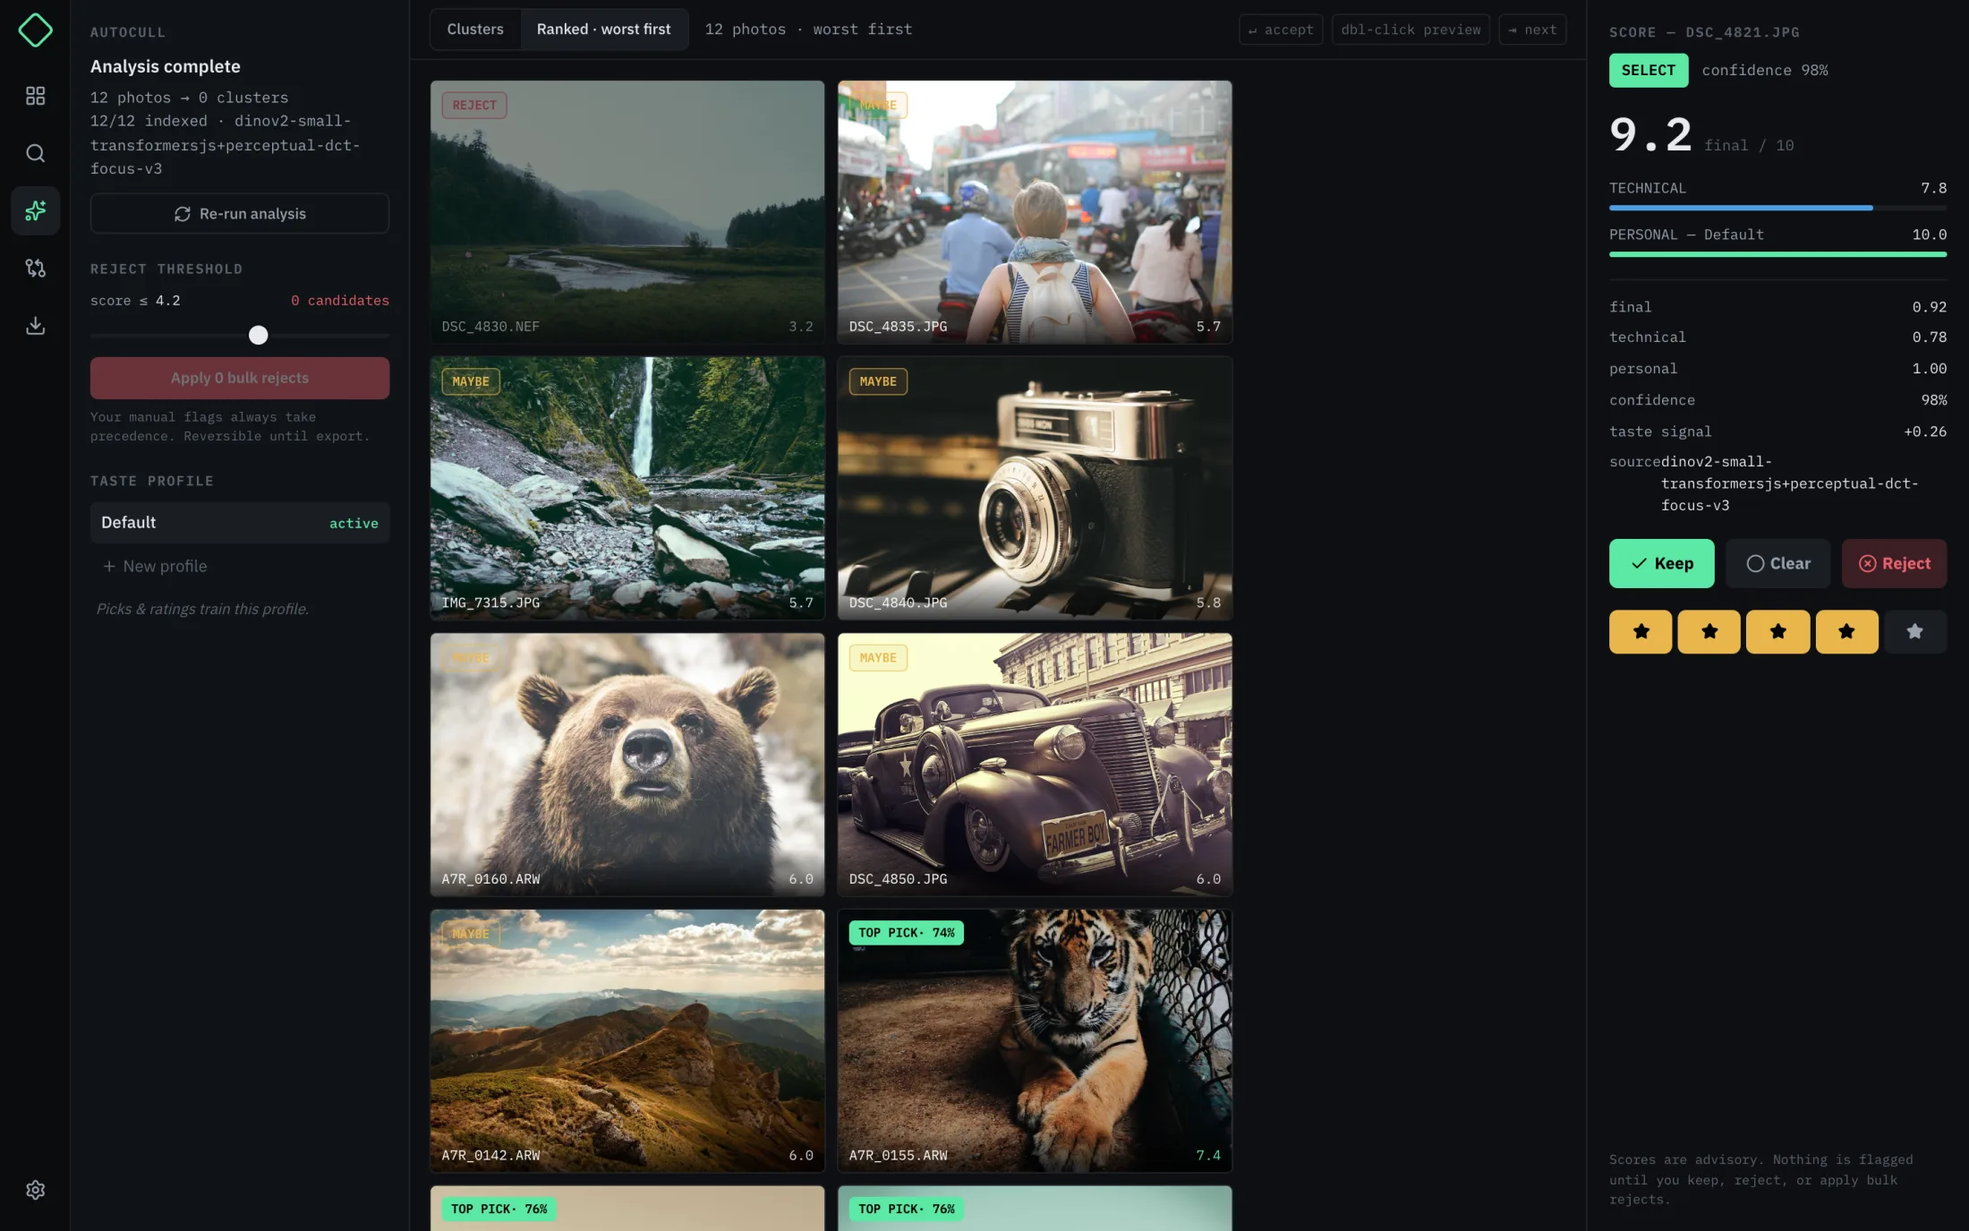
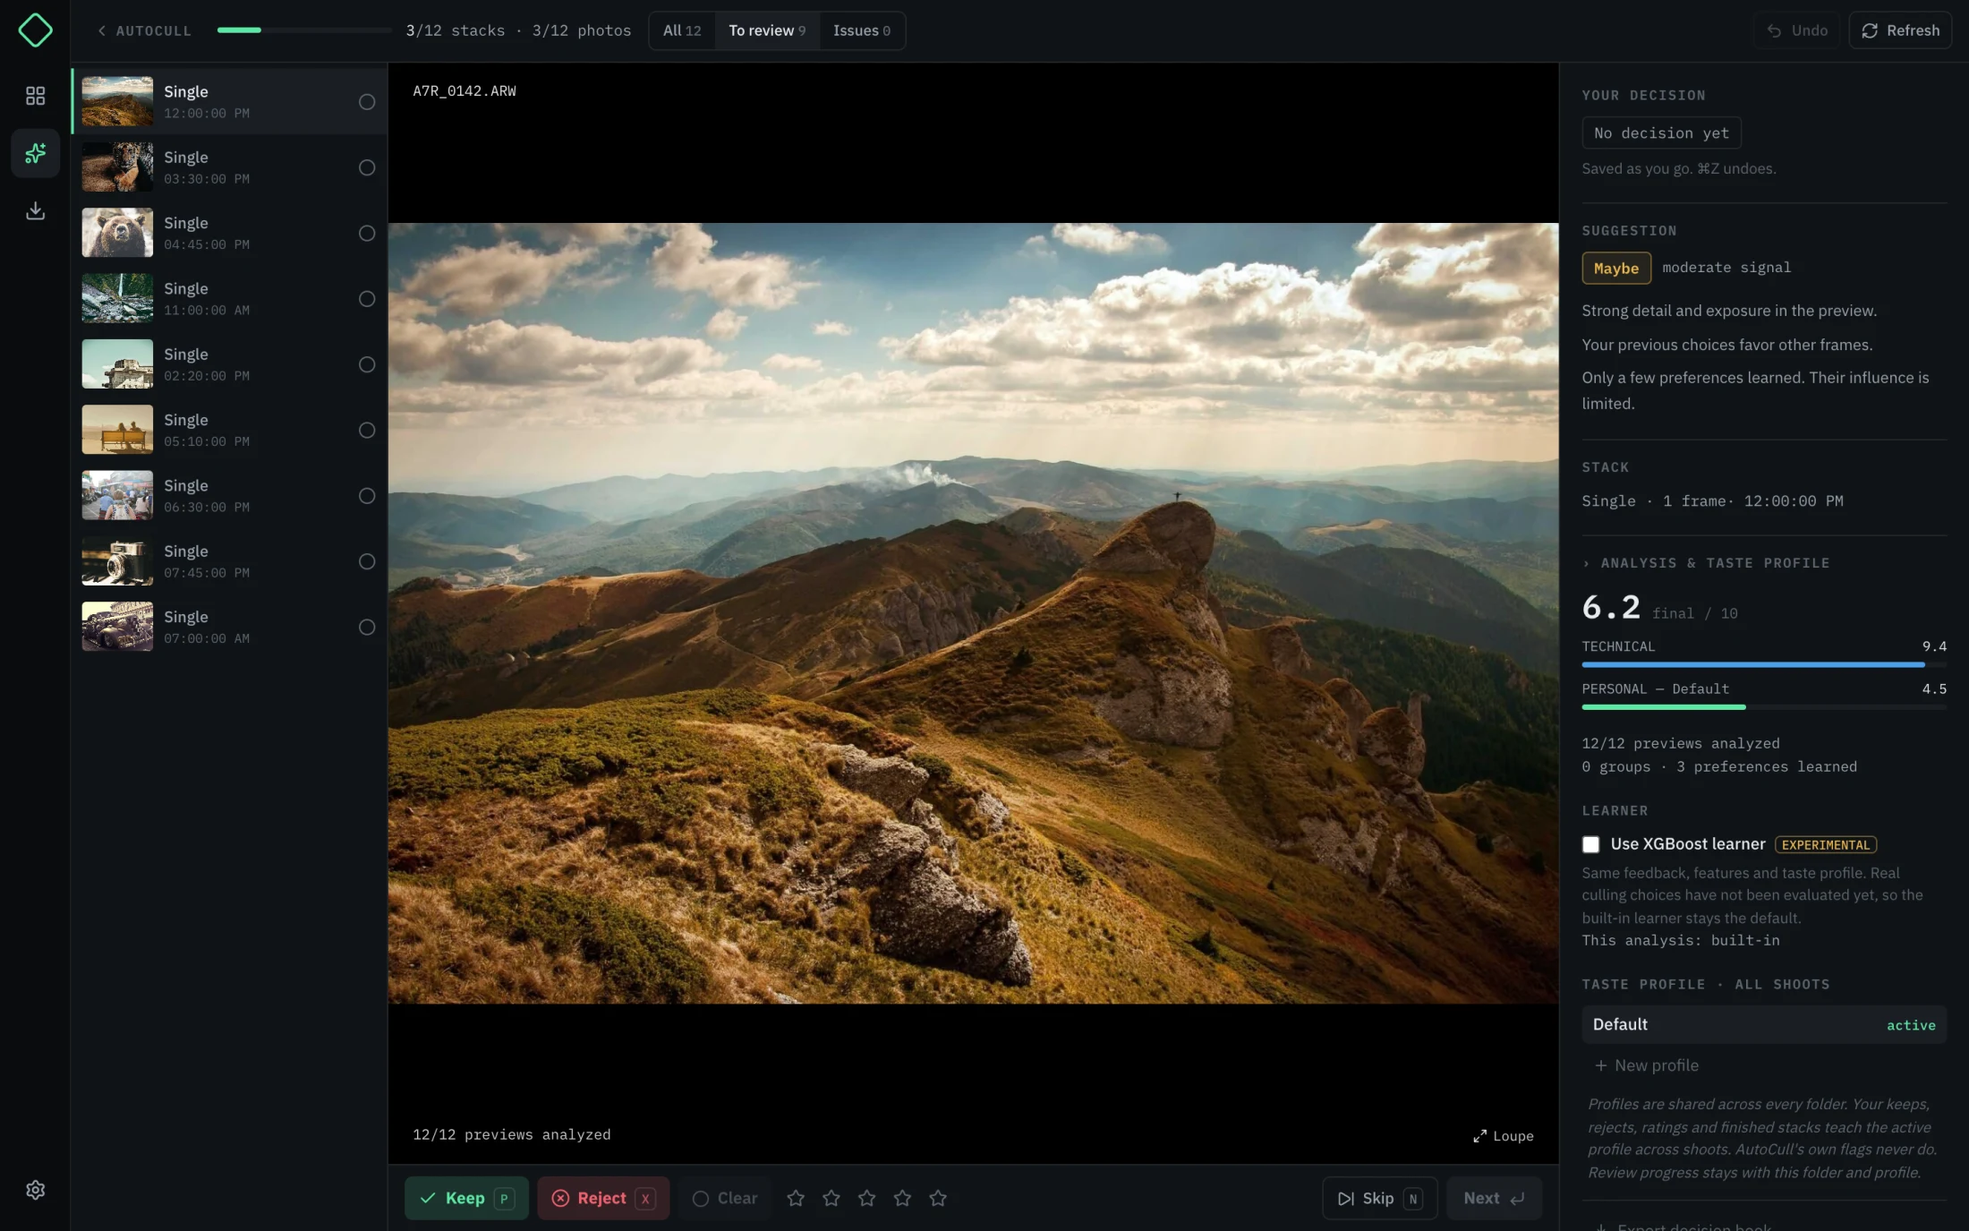
site: highlight v1.2.0 features and stable downloads

diff --git a/site/index.html b/site/index.html
@@ -7,13 +7,15 @@
     <meta name="color-scheme" content="dark" />
     <meta
       name="description"
-      content="Hologram is a fast, local-first photo culling and management app for photographers who want complete control over their files."
+      content="Hologram is a fast, local-first photo culling and management app for photographers who want complete control over their files. Version 1.2.0 is available for macOS, Windows, and Linux."
     />
     <meta property="og:type" content="website" />
+    <meta property="og:site_name" content="Hologram" />
+    <meta property="og:url" content="https://bryanhu.com/Hologram/" />
     <meta property="og:title" content="Hologram — Cull the shoot. Keep your files." />
     <meta
       property="og:description"
-      content="Pro-grade RAW+JPEG culling, local AutoCull, deep EXIF filters, and a keyboard-first workflow. Your originals never leave your machine."
+      content="Pro-grade RAW+JPEG culling, a local AutoCull that keeps learning your taste across shoots, deep EXIF filters, and a keyboard-first workflow. Your originals never leave your machine."
     />
     <meta property="og:image" content="https://bryanhu.com/Hologram/og.png" />
     <meta name="twitter:card" content="summary_large_image" />
@@ -25,7 +27,7 @@
     <meta name="twitter:image" content="https://bryanhu.com/Hologram/og.png" />
     <link rel="canonical" href="https://bryanhu.com/Hologram/" />
     <link rel="icon" href="./favicon.png" />
-    <link rel="stylesheet" href="./styles.css?v=aspect-ratio-v2" />
+    <link rel="stylesheet" href="./styles.css?v=release-1.2.0" />
     <title>Hologram — Local-first photo culling</title>
   </head>
   <body>
@@ -40,6 +42,7 @@
       <nav class="nav-links" id="site-nav" aria-label="Primary navigation">
         <a href="#workflow">Workflow</a>
         <a href="#autocull">AutoCull</a>
+        <a href="#release">What's new</a>
         <a href="#principles">Principles</a>
       </nav>
 
@@ -53,10 +56,10 @@
         >
         <a
           class="button button-small"
-          href="https://nightly.link/ThatXliner/Hologram/workflows/build/main"
+          href="https://github.com/ThatXliner/Hologram/releases/tag/v1.2.0"
           target="_blank"
           rel="noreferrer"
-          >Get the nightly</a
+          >Download 1.2.0</a
         >
         <button class="menu-toggle" type="button" aria-controls="site-nav" aria-expanded="false">
           <span></span><span></span><span></span><span class="sr-only">Toggle menu</span>
@@ -68,7 +71,7 @@
       <section class="hero" id="top">
         <div class="hero-glow" aria-hidden="true"></div>
         <div class="shell hero-copy reveal">
-          <p class="eyebrow"><span class="status-dot"></span> Local-first photo workflow <span>/</span> macOS first</p>
+          <p class="eyebrow"><span class="status-dot"></span> Version 1.2.0 is out <span>/</span> Local-first photo workflow</p>
           <h1>Cull the shoot.<br /><em>Keep your files.</em></h1>
           <p class="hero-deck">
             Hologram is the fast, keyboard-first workspace for photographers who want RAW+JPEG control,
@@ -77,14 +80,20 @@
           <div class="hero-actions">
             <a
               class="button"
-              href="https://nightly.link/ThatXliner/Hologram/workflows/build/main"
+              href="https://github.com/ThatXliner/Hologram/releases/tag/v1.2.0"
               target="_blank"
               rel="noreferrer"
-              >Download the nightly <span aria-hidden="true">↘</span></a
+              >Download Hologram 1.2.0 <span aria-hidden="true">↘</span></a
             >
-            <a class="text-link" href="#workflow">See the workflow <span aria-hidden="true">↓</span></a>
+            <a class="text-link" href="#release">What's new in 1.2.0 <span aria-hidden="true">↓</span></a>
           </div>
-          <p class="build-note">Open source · Active development · Your originals stay untouched</p>
+          <p class="platform-note">
+            <a href="https://github.com/ThatXliner/Hologram/releases/download/v1.2.0/hologram_1.2.0_aarch64.dmg"
+              >macOS Apple Silicon (.dmg)</a
+            >
+            <span aria-hidden="true">·</span> Windows x64 <span aria-hidden="true">·</span> Linux x64
+          </p>
+          <p class="build-note">Open source · Stable release · Your originals stay untouched</p>
         </div>
 
         <div class="shell hero-product reveal" data-delay="1">
@@ -209,16 +218,16 @@
       <section class="section shell feature-section" id="autocull">
         <div class="feature-copy reveal">
           <p class="eyebrow">intelligence with boundaries</p>
-          <h2>Introducing<br /><em>AutoCull.</em></h2>
+          <h2>AutoCull learns<br /><em>your taste.</em></h2>
           <p>
-            Hologram groups bursts, scores technical quality, and learns from the picks you make—all on your machine.
+            Hologram groups bursts, scores technical quality, and learns from the calls you make, all on your machine.
             Every recommendation is inspectable. Every final decision is still yours.
           </p>
           <ul class="check-list">
             <li><span>✓</span> Burst and similarity clustering</li>
-            <li><span>✓</span> Adjustable reject threshold</li>
+            <li><span>✓</span> A summary before anything applies, undone in one step</li>
             <li><span>✓</span> Technical + personal score breakdown</li>
-            <li><span>✓</span> Taste profiles trained by your choices</li>
+            <li><span>✓</span> One taste profile that carries across shoots</li>
           </ul>
           <p class="micro-note">Manual flags always win.</p>
         </div>
@@ -227,30 +236,82 @@
           <div class="shot-label"><span>LOCAL MODEL</span><span>12 / 12 indexed</span></div>
           <img
             src="./assets/autocull.webp"
-            alt="AutoCull showing burst recommendations, score confidence, and manual controls"
+            alt="AutoCull ranking a set of photos with a technical and personal score breakdown and manual Keep and Reject controls"
             loading="lazy"
             width="2200"
             height="1375"
           />
-          <div class="score-float" aria-hidden="true">
-            <span>SELECT</span><strong>7.6</strong><small>98% confidence</small>
+        </div>
+      </section>
+
+      <section class="section release-section" id="release" aria-labelledby="release-title">
+        <div class="shell">
+          <div class="section-heading reveal">
+            <p class="eyebrow">New in 1.2.0</p>
+            <div>
+              <h2 id="release-title">Taste that carries over.<br /><em>Evidence you can rerun.</em></h2>
+              <p class="section-lede">
+                AutoCull now keeps learning from one profile across every folder you open, and gives you the data to
+                check how it learns.
+              </p>
+            </div>
+          </div>
+
+          <div class="release-grid">
+            <article class="release-item reveal">
+              <div class="release-meta"><span>01</span><span class="release-tag">AutoCull</span></div>
+              <h3>Your taste profile follows you between shoots.</h3>
+              <p>
+                Your saved picks, rejects, ratings, and comparisons carry across folders with your active profile.
+                Keep teaching AutoCull as you review each shoot.
+              </p>
+              <ul class="release-facts">
+                <li>Your manual reviews teach it. Its own automatic picks don't.</li>
+                <li>Corrections and undo change what it learns.</li>
+              </ul>
+            </article>
+
+            <article class="release-item reveal" data-delay="1">
+              <div class="release-meta">
+                <span>02</span><span class="release-tag release-tag-experimental">Experimental · Opt-in</span>
+              </div>
+              <h3>A native XGBoost learner, if you want to try it.</h3>
+              <p>
+                Try <strong>Use XGBoost learner</strong> under Analysis &amp; taste profile.
+                It trains locally with no extra setup. The built-in learner stays the default.
+              </p>
+              <p class="release-caveat">
+                <b>Experimental</b>We haven't established that it ranks better on held-out human reviews.
+              </p>
+            </article>
+
+            <article class="release-item reveal" data-delay="2">
+              <div class="release-meta"><span>03</span><span class="release-tag">Export</span></div>
+              <h3>Decision books for repeatable evaluation.</h3>
+              <p>
+                Export a decision book and Hologram generates a JSON file from your saved reviews and derived
+                image features. Compare trainers against the same decisions without relabeling your photos.
+              </p>
+              <ul class="release-facts">
+                <li>Anonymous photo IDs, with no original images or file paths.</li>
+                <li>Automatic decisions stay out of the review data.</li>
+              </ul>
+              <p class="release-caveat">
+                <b>Before you share one</b>Derived features can still reveal coarse image content.
+              </p>
+            </article>
+          </div>
+
+          <div class="release-foot reveal">
+            <span>Hologram 1.2.0 · macOS Apple Silicon · Windows x64 · Linux x64</span>
+            <a href="https://github.com/ThatXliner/Hologram/releases/tag/v1.2.0" target="_blank" rel="noreferrer"
+              >Release notes &amp; downloads <span aria-hidden="true">↗</span></a
+            >
           </div>
         </div>
       </section>
 
-      <!--<section class="manifesto-band" id="principles">
-        <div class="shell manifesto-grid">
-          <p class="eyebrow reveal">The deal</p>
-          <div class="manifesto-copy reveal" data-delay="1">
-            <h2>Your files are not a subscription.</h2>
-            <p>
-              No cloud library. No proprietary vault. No surprise rewrite of your originals. Hologram reads the
-              folders you already own and puts the fastest decisions one keystroke away.
-            </p>
-          </div>
-        </div>
-      </section>-->
-      <section class="section shell values-section">
+      <section class="section shell values-section" id="principles">
         <div class="section-heading reveal">
           <p class="eyebrow">Built on a few stubborn beliefs</p>
           <h2>Professional tools should<br />respect professional intent.</h2>
@@ -282,10 +343,10 @@
           <div class="hero-actions">
             <a
               class="button button-dark"
-              href="https://nightly.link/ThatXliner/Hologram/workflows/build/main"
+              href="https://github.com/ThatXliner/Hologram/releases/tag/v1.2.0"
               target="_blank"
               rel="noreferrer"
-              >Get Hologram nightly <span aria-hidden="true">↘</span></a
+              >Get Hologram 1.2.0 <span aria-hidden="true">↘</span></a
             >
             <a
               class="text-link text-link-dark"
@@ -295,7 +356,7 @@
               >Star on GitHub <span aria-hidden="true">↗</span></a
             >
           </div>
-          <p class="build-note build-note-dark">Free and open source · Builds for macOS, Windows, and Linux</p>
+          <p class="build-note build-note-dark">Free and open source · macOS Apple Silicon, Windows x64, and Linux x64</p>
         </div>
       </section>
     </main>
@@ -308,6 +369,7 @@
         </div>
         <div class="footer-links">
           <a href="https://github.com/ThatXliner/Hologram" target="_blank" rel="noreferrer">GitHub ↗</a>
+          <a href="https://github.com/ThatXliner/Hologram/releases/tag/v1.2.0" target="_blank" rel="noreferrer">Release notes ↗</a>
           <a href="https://github.com/ThatXliner/Hologram/issues/6" target="_blank" rel="noreferrer">Roadmap ↗</a>
           <a href="https://github.com/ThatXliner/Hologram/blob/main/LICENSE" target="_blank" rel="noreferrer">License ↗</a>
         </div>

diff --git a/site/styles.css b/site/styles.css
@@ -130,7 +130,7 @@ img { display: block; max-width: 100%; height: auto; }
 }
 .hero-glow {
   position: absolute;
-  width: 720px; height: 720px;
+  width: min(720px, 100%); height: 720px;
   left: 50%; top: -360px;
   transform: translateX(-50%);
   background: rgba(92, 232, 164, 0.09);
@@ -176,6 +176,10 @@ h1 em, h2 em { color: var(--green); font-family: Georgia, "Times New Roman", ser
 .hero-actions { display: flex; align-items: center; justify-content: center; gap: 28px; margin-top: 34px; }
 .text-link { padding: 12px 0; border-bottom: 1px solid #4b524e; font: 600 13px/1 var(--mono); }
 .text-link:hover { border-color: var(--green); color: var(--green); }
+.platform-note { margin: 24px 0 0; color: #7d8581; font: 500 11px/1.7 var(--mono); }
+.platform-note > span { margin-inline: 6px; color: #4c5550; }
+.platform-note a { color: #b7bdb9; border-bottom: 1px solid #4b524e; transition: color 160ms ease, border-color 160ms ease; }
+.platform-note a:hover { color: var(--green); border-color: var(--green); }
 .build-note { margin: 18px 0 0; color: #636b67; font: 500 10px/1.5 var(--mono); text-transform: uppercase; letter-spacing: .08em; }
 
 .hero-product { margin-top: 90px; }
@@ -232,9 +236,6 @@ h1 em, h2 em { color: var(--green); font-family: Georgia, "Times New Roman", ser
 .signal-row strong { font: 600 13px/1.2 var(--mono); }
 .signal-row span { margin-top: 7px; color: #6d7571; font-size: 12px; }
 
-.manifesto-band { position: relative; z-index: 2; padding: 145px 0; border-bottom: 1px solid var(--line); }
-.manifesto-grid { display: grid; grid-template-columns: 1fr 3fr; gap: 60px; }
-.manifesto-copy h2,
 .section-heading h2,
 .feature-copy h2,
 .evidence-copy h2,
@@ -245,7 +246,6 @@ h1 em, h2 em { color: var(--green); font-family: Georgia, "Times New Roman", ser
   letter-spacing: -0.06em;
   font-weight: 620;
 }
-.manifesto-copy p { max-width: 790px; margin: 34px 0 0; color: #9ba39f; font-size: 20px; line-height: 1.6; }
 
 .section { padding: 150px 0; }
 .section-heading { display: grid; grid-template-columns: 1fr 3fr; gap: 60px; align-items: start; margin-bottom: 70px; }
@@ -284,11 +284,26 @@ h1 em, h2 em { color: var(--green); font-family: Georgia, "Times New Roman", ser
 .feature-shot img { width: 100%; }
 .shot-label { display: flex; justify-content: space-between; padding: 4px 3px 14px; color: #5b6560; font: 600 9px/1 var(--mono); letter-spacing: .08em; }
 .shot-label span:first-child { color: var(--green); }
-.score-float { position: absolute; right: -24px; bottom: -30px; width: 170px; padding: 18px; background: rgba(17,21,24,.94); border: 1px solid rgba(92,232,164,.3); backdrop-filter: blur(15px); box-shadow: 0 18px 42px rgba(0,0,0,.48); }
-.score-float span, .score-float strong, .score-float small { display: block; }
-.score-float span { width: fit-content; padding: 5px 7px; color: #07100a; background: var(--green); font: 800 9px/1 var(--mono); }
-.score-float strong { margin-top: 16px; font: 500 42px/1 var(--mono); }
-.score-float small { margin-top: 7px; color: #747d78; font: 500 9px/1 var(--mono); text-transform: uppercase; }
+
+.release-section { background: #0b0e10; border-block: 1px solid var(--line); }
+.section-lede { max-width: 640px; margin: 26px 0 0; color: #969e9a; font-size: 17px; line-height: 1.7; }
+.release-grid { display: grid; grid-template-columns: repeat(3, 1fr); gap: 1px; background: var(--line); border: 1px solid var(--line); }
+.release-item { display: flex; flex-direction: column; min-width: 0; padding: 32px 30px 30px; background: var(--bg); }
+.release-meta { display: flex; align-items: center; justify-content: space-between; gap: 12px; margin-bottom: 56px; font: 600 10px/1 var(--mono); }
+.release-meta > span:first-child { color: var(--green); }
+.release-tag { padding: 6px 8px; color: #9ba39f; border: 1px solid var(--line); letter-spacing: .08em; text-transform: uppercase; }
+.release-tag-experimental { color: var(--amber); border-color: rgba(232, 182, 76, .32); }
+.release-item h3 { margin: 0; font-size: 22px; line-height: 1.2; letter-spacing: -.035em; }
+.release-item > p { margin: 13px 0 0; color: #808984; font-size: 14px; line-height: 1.6; }
+.release-item > p strong { color: #cbd0cd; font-weight: 600; }
+.release-facts { margin: 26px 0 0; padding: 0; list-style: none; border-top: 1px solid var(--line); }
+.release-facts li { position: relative; padding: 12px 0 12px 22px; border-bottom: 1px solid var(--line); color: #b0b7b3; font-size: 13px; line-height: 1.5; }
+.release-facts li::before { content: "·"; position: absolute; left: 0; color: var(--green); font-family: var(--mono); }
+.release-item > .release-caveat { margin: auto 0 0; padding-top: 24px; color: #8a928e; font-size: 13px; line-height: 1.55; }
+.release-caveat b { display: block; margin-bottom: 8px; color: var(--amber); font: 600 10px/1 var(--mono); letter-spacing: .08em; text-transform: uppercase; }
+.release-foot { display: flex; flex-wrap: wrap; align-items: center; justify-content: space-between; gap: 14px 24px; margin-top: 26px; color: #636b67; font: 500 10px/1.5 var(--mono); letter-spacing: .08em; text-transform: uppercase; }
+.release-foot a { padding-bottom: 4px; color: #b7bdb9; border-bottom: 1px solid #4b524e; }
+.release-foot a:hover { color: var(--green); border-color: var(--green); }
 
 .evidence-section { background: #0b0e10; border-block: 1px solid var(--line); }
 .evidence-grid { display: grid; grid-template-columns: 1.4fr .8fr; gap: 86px; align-items: center; }
@@ -342,7 +357,7 @@ h1 em, h2 em { color: var(--green); font-family: Georgia, "Times New Roman", ser
   .menu-toggle { display: block; }
   .github-link { display: none; }
   .hero { padding-top: 150px; }
-  .manifesto-grid, .section-heading { grid-template-columns: 1fr; gap: 16px; }
+  .section-heading { grid-template-columns: 1fr; gap: 16px; }
   .workflow-grid { grid-template-columns: 1fr; }
   .workflow-card { border-right: 0; border-bottom: 1px solid var(--line); }
   .workflow-card:last-child { border-bottom: 0; }
@@ -350,7 +365,8 @@ h1 em, h2 em { color: var(--green); font-family: Georgia, "Times New Roman", ser
   .feature-section { gap: 58px; }
   .evidence-grid { gap: 70px; }
   .evidence-shot { transform: none; }
-  .values-grid { grid-template-columns: 1fr; }
+  .values-grid, .release-grid { grid-template-columns: 1fr; }
+  .release-meta { margin-bottom: 36px; }
   .values-grid article { min-height: auto; }
   .values-grid article > span { margin-bottom: 44px; }
 }
@@ -376,15 +392,15 @@ h1 em, h2 em { color: var(--green); font-family: Georgia, "Times New Roman", ser
   .signal-row > div { border-bottom: 1px solid var(--line); }
   .signal-row > div:nth-child(2) { border-right: 0; }
   .signal-row > div:nth-child(n+3) { border-bottom: 0; }
-  .manifesto-band, .section { padding: 100px 0; }
-  .manifesto-copy h2, .section-heading h2, .feature-copy h2, .evidence-copy h2 { font-size: 45px; }
-  .manifesto-copy p { font-size: 17px; }
+  .section { padding: 100px 0; }
+  .section-heading h2, .feature-copy h2, .evidence-copy h2 { font-size: 45px; }
   .section-heading { margin-bottom: 48px; }
   .workflow-card { padding: 24px; }
   .card-visual { height: 160px; }
   .key-visual kbd { min-width: 48px; padding: 18px 8px; }
   .feature-section { gap: 48px; }
-  .score-float { right: -6px; bottom: -48px; }
+  .release-item { padding: 26px 24px; }
+  .section-lede { font-size: 16px; }
   .evidence-section { padding-top: 120px; }
   .cta-section { padding: 110px 0; }
   .cta-inner h2 { font-size: 64px; }
